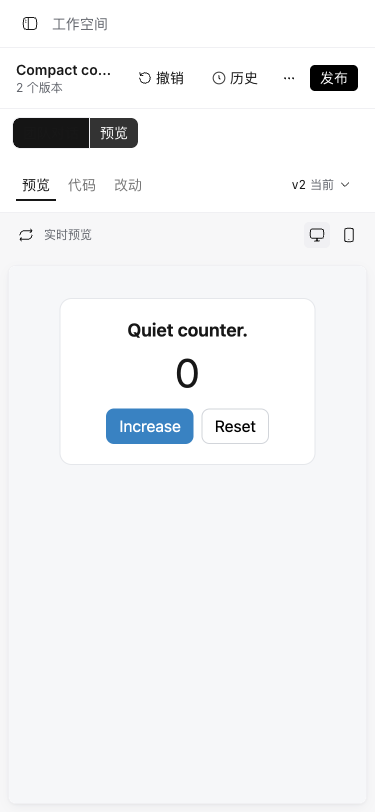
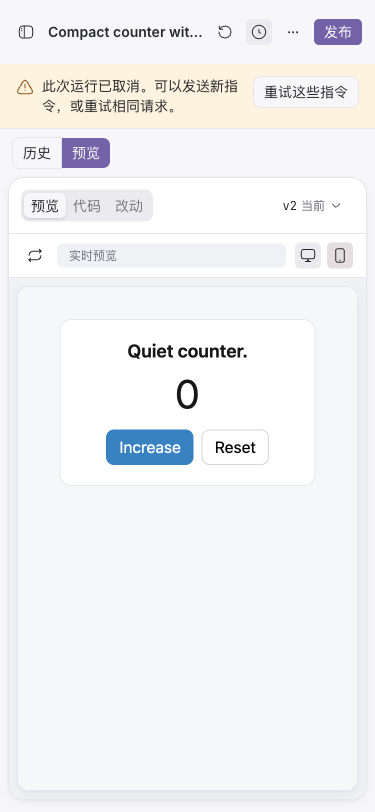
docs: verify PostgreSQL cutover

diff --git a/docs/operations/deployment.md b/docs/operations/deployment.md
@@ -2,7 +2,7 @@
 
 ## Current rollout status
 
-**Python/PostgreSQL is now the production authority.** Static Pages deployment `f574dabe` serves release `01b2c3b`; the final fenced import passed before activation. `backendReady` is true. Deployed real-model acceptance and final CI are in progress.
+**Python/PostgreSQL is the verified production authority.** Static Pages deployment `2f683b3f` serves integrated release `f7dfcb3`, including the latest light workspace layout. The final fenced import passed before activation; `backendReady` is true. Python and JavaScript CI plus GitGuardian passed for this release.
 
 | Resource                      | Current identity / boundary                                                                   |
 | ----------------------------- | --------------------------------------------------------------------------------------------- |
@@ -37,11 +37,15 @@ The final six-table export was taken after all 53 legacy runs were terminal, the
 | run_events      | 4,593 |
 | run_checkpoints |   357 |
 
[2 lines of base64/hex data omitted]
 
-Final targeted verification passed: **144 Python tests**, **19 compiler tests**, **37 client message tests**, client/compiler typechecks and the static frontend build. Real-model run `f43bd63c-6186-4d0c-96c3-213afc238c0f` saved v1; follow-up `d8cff470-6f81-4d5c-af6e-a2c6eed8f48d` saved v2. Browser reload reconnected to the same running task (cursor 62 → 67). Independent review may use different checks from implementation validation, while both remain tied to the exact source/build. Browser Undo, frozen v1 publication during v2 generation, exact source ZIP, restore, remix, cancellation preserving v2, unpublication, cross-owner denial and allowed/denied CORS passed. These are stage acceptance results; final import and deployed browser evidence remain required.
+Targeted verification passed: **144 Python tests**, **19 compiler tests**, **37 client message tests**, client/compiler typechecks and the static frontend build. Stage run `f43bd63c-6186-4d0c-96c3-213afc238c0f` saved v1; follow-up `d8cff470-6f81-4d5c-af6e-a2c6eed8f48d` saved v2. Browser reload reconnected to the running task (cursor 62 → 67). Independent review may use different checks from implementation validation, while both remain tied to the exact source/build. Stage Undo, frozen publication, exact ZIP, restore, remix, cancellation, unpublication, ownership and CORS checks passed.
 
-The pre-cutover browser retained all four existing owned projects and draft `80601bf4-b494-4723-8a90-45dddfe6eb47`. Its GET/POST/DELETE requests preserved the owner header and body through redirects. Legacy Worker `2ad2ebc5-87f6-4016-8f70-e1b82a7acf00` now only redirects API/public URLs; it has no D1 binding or scheduled work. Previous Worker `0fe9b4c0-c5c5-44b6-bd9f-c9f2413bed3c` and Pages `cfe7d89e-08d3-4654-a502-7e4c040bca0d` are recovery artifacts, not writable fallback authorities.
+The pre-cutover browser retained all four existing owned projects and draft `80601bf4-b494-4723-8a90-45dddfe6eb47`. Its GET/POST/DELETE, historical SSE cursor and version-selected ZIP requests preserved owner, method, body and query through redirects. All four historical public documents match their original HTML hashes; the six-file downloaded version matches the snapshot byte-for-byte. Legacy Worker `51e2cf38-563b-4ee3-8b3b-fb2e27e45a94` only redirects API/public URLs and has no D1 binding or scheduled work. The unused Pages `API` service binding was removed. Previous Worker `0fe9b4c0-c5c5-44b6-bd9f-c9f2413bed3c` and Pages `cfe7d89e-08d3-4654-a502-7e4c040bca0d` are recovery artifacts, not writable fallback authorities.
+
[1 lines of base64/hex data omitted]
+
+A concurrent layout release briefly restored legacy routing. Forwarding was immediately restored, and a second six-table D1 export matched the frozen snapshot row-for-row: no data diverged. Its UI changes were integrated into `f7dfcb3` and deployed with static Python routing. [Python CI](https://github.com/Muluk-m/formlane/actions/runs/43227687355) and [JavaScript CI](https://github.com/Muluk-m/formlane/actions/runs/43227687280) passed after integration.
 
 CI uses a per-run password only for its isolated loopback PostgreSQL container. No production secret is committed. Use released action tags, and pass the verified Cloudflare account through `CLOUDFLARE_ACCOUNT_ID`: Pages rejects `account_id` in its Wrangler configuration.
 

diff --git a/README.md b/README.md
@@ -6,10 +6,10 @@ The production architecture is **FastAPI + native CrewAI + PostgreSQL on the exi
 
 The frontend stays at [formlane-9dp.pages.dev](https://formlane-9dp.pages.dev), preserving existing anonymous browser ownership and shared links. Historical published examples include the [React counter](https://formlane-9dp.pages.dev/p/8tq3mrv54j) and [market app](https://formlane-9dp.pages.dev/p/7e2g3qqnnd).
 
-![Idea workspace](docs/screenshots/home-redesign-desktop.png)
-![Version history and source comparison](docs/screenshots/workspace-history-diff.png)
+![Production workspace and history](docs/screenshots/python-cutover-desktop.png)
+![Production mobile preview](docs/screenshots/python-cutover-mobile.png)
 
-These screenshots document earlier deployed product behavior, not acceptance of the Python cutover.
+These production screenshots show release `f7dfcb3`, with saved v2 retained after the cancellation acceptance check.
 
 ## Features
 
